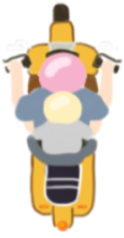
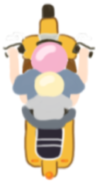
Update player image and size

diff --git a/public/player/playerController.js b/public/player/playerController.js
@@ -27,8 +27,8 @@ class PlayerController {
     this.playerSprite.img = this.playerImg;
 
     this.playerSprite.removeColliders();
-    this.playerSprite.addCollider(0, 0, 35, 225); // 比較長型的
-    this.playerSprite.addCollider(0, -30, 100, 80); // 比較寬的
+    this.playerSprite.addCollider(0, 0, 30, 170); // 比較長型的
+    this.playerSprite.addCollider(0, -30, 80, 55); // 比較寬的
     this.playerSprite.mass = 5; // 大概是車子的 1/3
 
     // From p5play doc:
